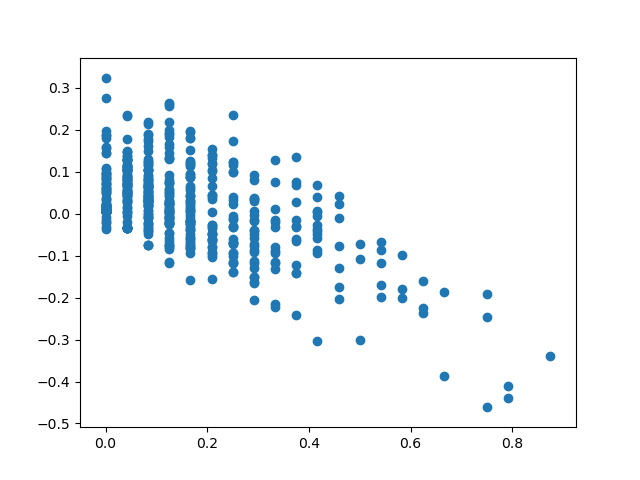
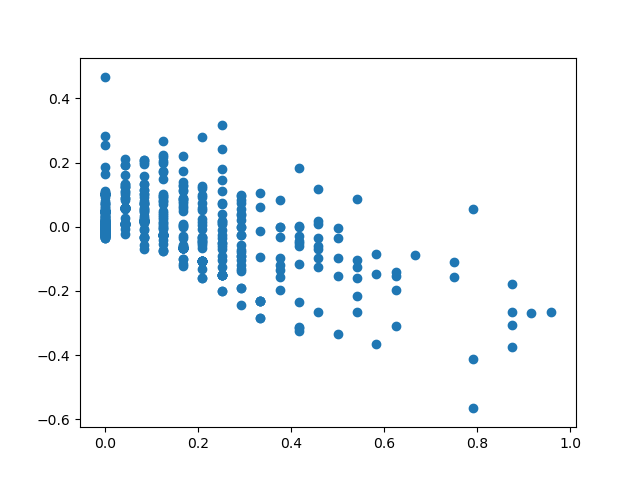
fix: change train_set in DNN model

diff --git a/Bike/DNN/DNN.py b/Bike/DNN/DNN.py
@@ -78,7 +78,7 @@ model.add(Dense(4, input_dim=n_feature, activation='relu'))
 model.add(Dense(4, activation='relu'))
 model.add(Dense(1, activation='linear'))
 model.compile(loss='mse', optimizer='adam')
-model.fit(X, y, epochs=1000, verbose=0)
+model.fit(X_train, y_train, epochs=1000, verbose=0)
 
 # Predict
 y_hat = model.predict(np.array(X_test))

diff --git a/Taxi/DNN/DNN.py b/Taxi/DNN/DNN.py
@@ -75,7 +75,7 @@ model.add(Dense(4, input_dim=n_feature, activation='relu'))
 model.add(Dense(4, activation='relu'))
 model.add(Dense(1, activation='linear'))
 model.compile(loss='mse', optimizer='adam')
-model.fit(X, y, epochs=1000, verbose=0)
+model.fit(X_train, y_train, epochs=1000, verbose=0)
 
 # Predict
 y_hat = model.predict(np.array(X_test))
